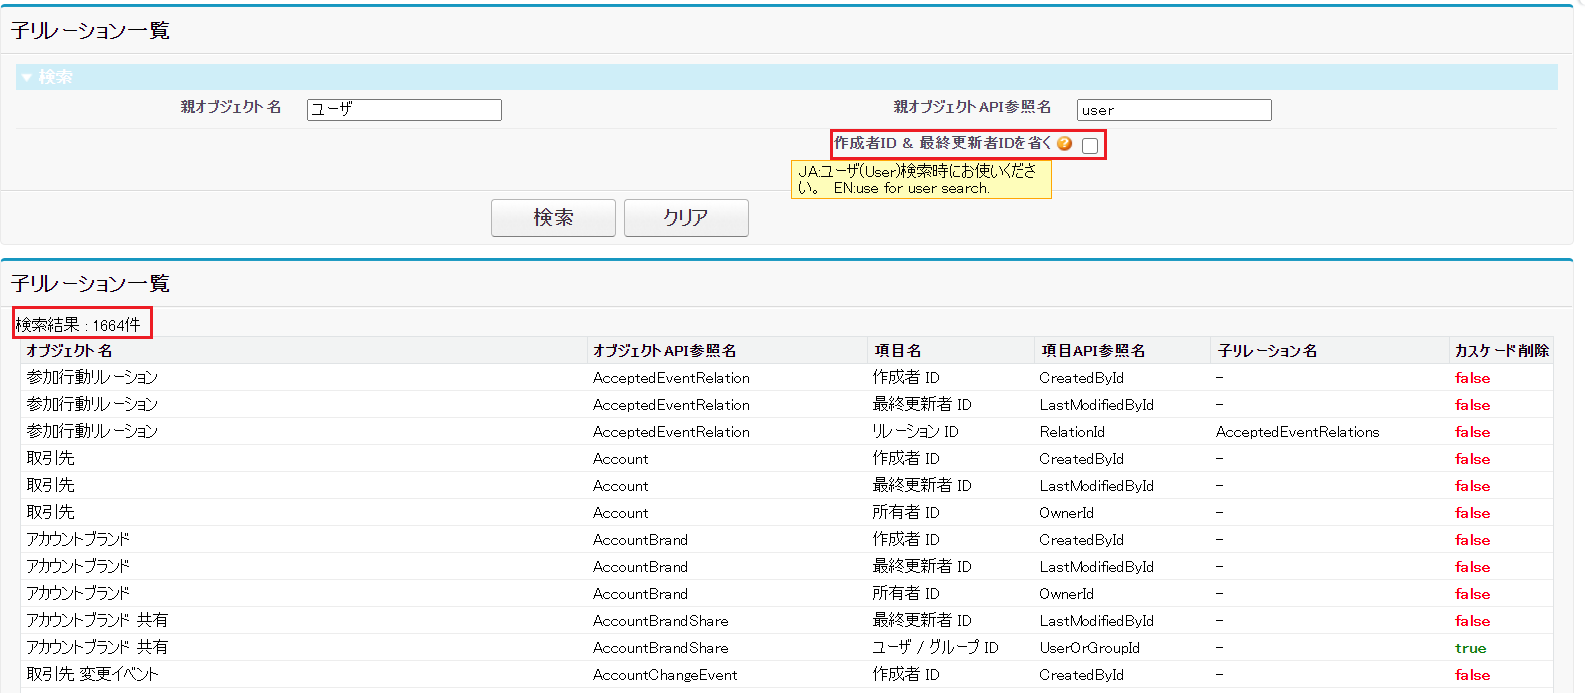
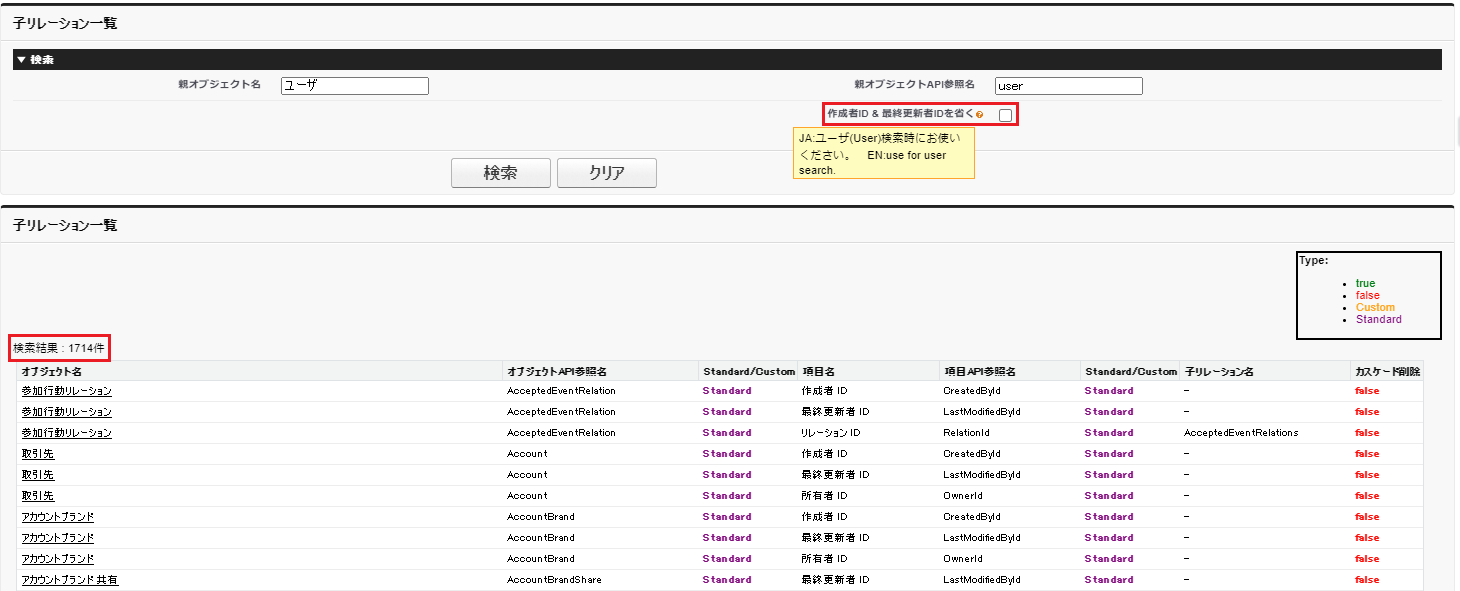
UpDate 20210218

diff --git a/README-en.md b/README-en.md
@@ -1,4 +1,4 @@
-# **Child Relationship Search Page**
+# **Child Relationship Search Page "Lightning recommended"**
 If you use Workbench, you can check the child relations related to the parent object, but it was a little difficult to use, so I created it.🔨🔧  
 Please use it if you like.💁♂
 
@@ -14,8 +14,10 @@ Please use it if you like.💁♂
 ![Search Result](/READMEimages/image02.png)
 - Object Name
 - Object API Name
+- Standard/Custom (Object)
 - Field name
 - Field API Name
+- Standard/Custom (Field)
 - Child Relation Name
 - Cascade Delete
   
@@ -27,3 +29,11 @@ Since the number of child relations is large for the user object,
 ![checkbox 'false'](/READMEimages/image03.png)
 ### 【Omit Create By ID & Last Modified ID　checkbox "true"】
 ![checkbox 'true'](/READMEimages/image04.png)
+  
+***
+## Page transition to "Object Manager"
+Click to open the corresponding object manager in a new tab.
+### 【Click the link】
+![Click the link](/READMEimages/image05.png)
+### 【Object Manager】
+![Object Manager](/READMEimages/image06.png)
